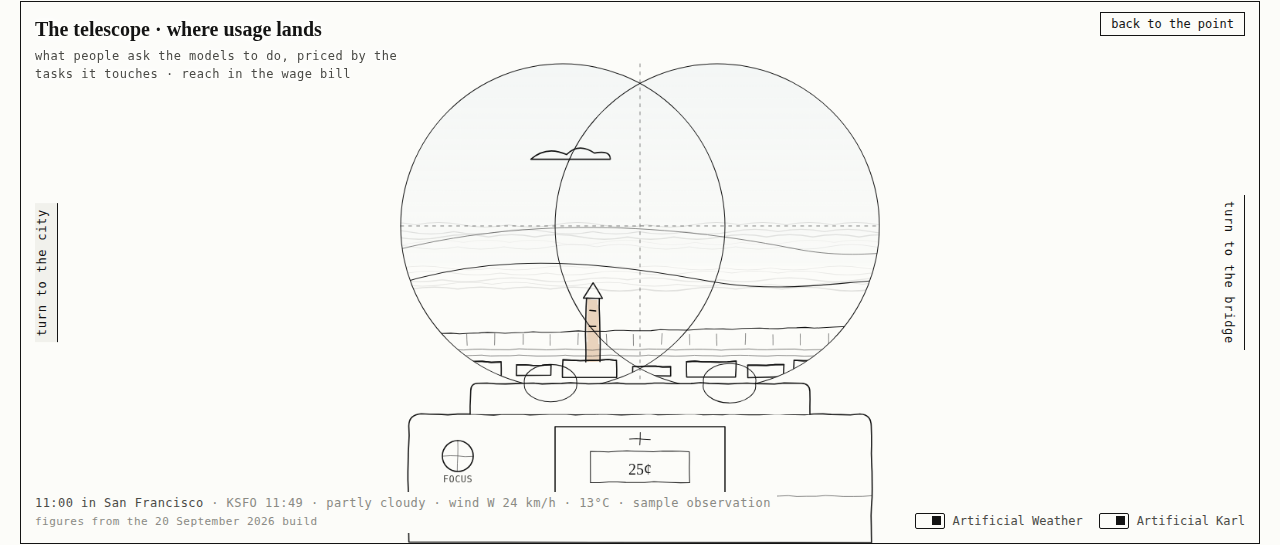
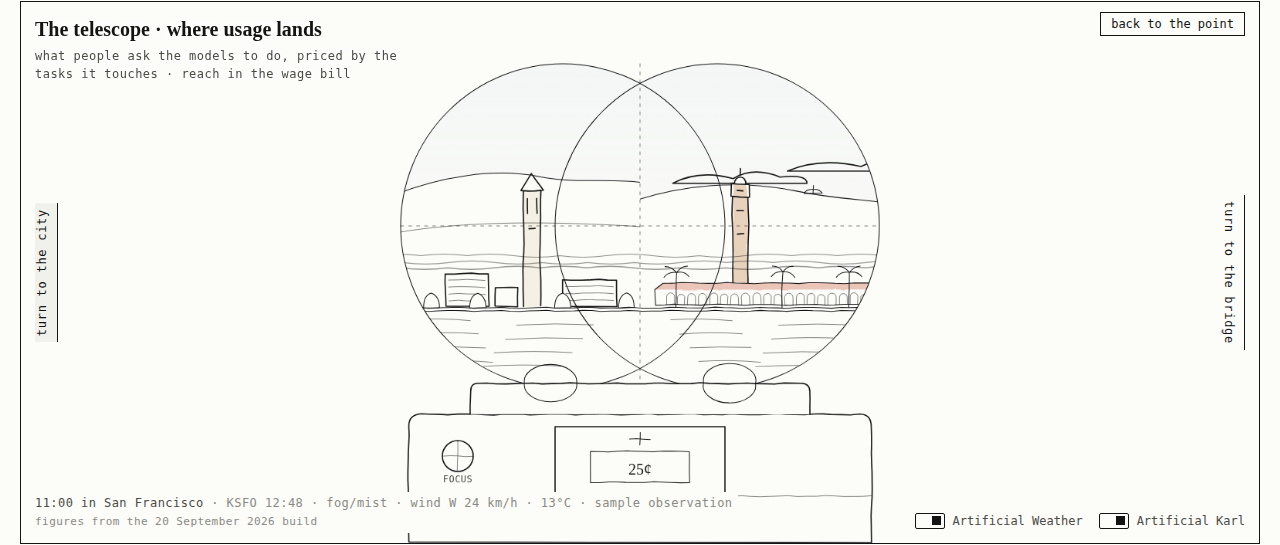
Front page: the city the right way round from the point, the headland solid over the Gate's north tower, the lantern's light cast on what it turns to, the fog lifting while the view turns, one car at a time, the launch from behind the southern hills, two campuses in the eyepieces

Changed region(s): [[0.3125, 0.2495, 0.6875, 0.7174], [0.25, 0.9046, 0.5938, 0.9358], [0.5, 0.3431, 0.5312, 0.3743]]

diff --git a/docs/mockup/index.html b/docs/mockup/index.html
@@ -85,7 +85,10 @@ header.top{display:flex;align-items:baseline;justify-content:space-between;gap:1
 .sunwash,.dawn{pointer-events:none}
 .skywash{mix-blend-mode:var(--blend,multiply)}
 .stage.stale .obs{color:var(--ink-3)}
-.beam{transform-origin:var(--bx) var(--by);transition:transform .8s cubic-bezier(.65,0,.25,1)}
+/* while the view turns, the fog lifts and comes back once it settles: it is most of what the turn has to redraw */
+.stage.fogout .fog{opacity:0 !important}.stage.turning .fog{display:none}
+.beam{transition:opacity .7s}.beam.moving{opacity:0;transition:none}
+#beamlight{mix-blend-mode:var(--blend,multiply)}
 .stage:not([data-view="home"]) .fg .hot,.stage[data-view="valley"] .beam{display:none}
 .stage:not([data-view="home"]) .beam path{opacity:.4}
 .halo{fill:var(--gold);stroke:none;opacity:0;transition:opacity .6s}
@@ -224,16 +227,17 @@ header.top{display:flex;align-items:baseline;justify-content:space-between;gap:1
     <svg class="pan" id="L-lights" viewBox="0 0 1600 700" aria-hidden="true"><g class="zoom"><g id="lights" class="scene"></g></g></svg>
     <svg class="pan" id="L-water" viewBox="0 0 1600 700" aria-hidden="true"><g class="zoom scene"><g id="water" class="hair"></g><g id="fog" class="fog" mask="url(#fogmask)"></g></g></svg>
     <!-- foreground: the point, the lighthouse, the railing, the viewer at rest -->
-    <svg id="L-life" viewBox="0 0 1600 700" aria-hidden="true"><g id="life" class="life scene"></g></svg>
+    <svg id="L-life" viewBox="0 0 1600 700" aria-hidden="true"><defs><clipPath id="behind-hills"><path clip-rule="evenodd" d="M0 0 H1600 V700 H0 Z M 1452 341 C 1490 326, 1535 316, 1575 318 C 1590 319, 1598 322, 1600 324 L 1600 341 Z"/></clipPath></defs><g id="life" class="life scene"></g></svg>
     <svg class="fg" id="L-fg" viewBox="0 0 1600 700" role="group" aria-label="An ink drawing of a lighthouse on a headland. Turn to the city or the bridge, or raise the coin telescope to look at the valley.">
       <g class="zoom" id="fgzoom"><g id="fg" class="scene">
         <path d="M560 700 C 600 620, 690 590, 760 585 C 830 580, 880 600, 930 610 C 980 620, 1040 660, 1060 700 Z" style="fill:var(--paper)"/>
         <path d="M600 660 C 650 640, 700 645, 740 630 M850 640 C 900 630, 950 650, 1000 670" class="thin"/>
-        <g class="beam" id="beam"><path d="" class="hair" stroke-dasharray="6 6"/></g>
+        <defs><linearGradient id="beamgrad" gradientUnits="userSpaceOnUse"><stop offset="0" stop-color="#E8C35A" stop-opacity=".55"/><stop offset="1" stop-color="#E8C35A" stop-opacity="0"/></linearGradient></defs>
+        <g class="beam" id="beam"><polygon id="beamlight" points="0,0" fill="url(#beamgrad)" style="stroke:none"/><path d="" class="hair" stroke-dasharray="6 6"/></g>
         <g id="lh"></g>
         <!-- a small platform off the gallery, and the coin telescope on it, turned south -->
-        <path d="M825 283 L 858 283 L 858 288 L 825 288 M 856 283 L 856 270 M 846 288 L 828 300" class="thin" style="fill:var(--paper)"/>
-        <g transform="translate(842,283)" id="viewer-small"></g>
+        <path d="M825 283 L 888 283 L 888 288 L 825 288 Z M 886 283 L 886 270 M 866 288 L 830 304" class="thin" style="fill:var(--paper)"/>
+        <g transform="translate(870,283)" id="viewer-small"></g>
         <path d="M640 604 L 960 604 M640 604 L 640 630 M720 604 L 720 632 M800 604 L 800 632 M880 604 L 880 630 M960 604 L 960 628" class="thin"/>
         <g class="hot" id="hot-city" tabindex="0" role="button" aria-label="The city: what has moved">
           <path class="hit" d="M800 300 L1600 120 L1600 480 Z"/><path class="hit" d="M1000 120 h560 v200 h-560 Z"/>
@@ -248,7 +252,7 @@ header.top{display:flex;align-items:baseline;justify-content:space-between;gap:1
           <g class="detail"><text x="110" y="210">the pipeline · who is training for exposed work</text></g>
         </g>
         <g class="hot" id="hot-tele" tabindex="0" role="button" aria-label="The telescope: where usage lands">
-          <path class="hit" d="M760 200 h110 v400 h-110 Z"/><path class="hit" d="M860 400 h290 v84 h-290 Z"/>
+          <path class="hit" d="M760 200 h140 v400 h-140 Z"/><path class="hit" d="M860 400 h290 v84 h-290 Z"/>
           <text x="872" y="424" class="cap">The telescope</text>
           <text x="872" y="446" class="mark" id="mark-valley"></text>
           <g class="detail"><text x="872" y="466">where usage lands · looking south, down the bay</text></g>
@@ -422,7 +426,7 @@ header.top{display:flex;align-items:baseline;justify-content:space-between;gap:1
      this one drawing about that place, so what you were looking at grows and nothing new arrives. The
      lighthouse in front is fixed, and shrinks to the base of the frame when the view has turned. */
   // c is the point of the scene brought to the middle of the frame (800, 300); s is how far the view leans in
-  const ZOOM = { home:{c:[800,300], s:1}, city:{c:[1170,300], s:2.3}, bridge:{c:[430,290], s:2.4}, valley:{c:[800,300], s:1} };
+  const ZOOM = { home:{c:[800,300], s:1}, city:{c:[1140,300], s:2.3}, bridge:{c:[430,290], s:2.4}, valley:{c:[800,300], s:1} };
   const toScreen = (view, x, y) => { const {c, s} = ZOOM[view]; return [800 + s*(x-c[0]), 300 + s*(y-c[1])]; };
   const toScene  = (view, x, y) => { const {c, s} = ZOOM[view]; return [c[0] + (x-800)/s, c[1] + (y-300)/s]; };
   const far = $("#far"), washes = $("#washes"), waterG = $("#water"), fogG = $("#fog");
@@ -433,11 +437,14 @@ header.top{display:flex;align-items:baseline;justify-content:space-between;gap:1
   water(waterA, 0, W, 352, 690, 3, 40); water(waterB, 0, W, 366, 690, 4, 40); water(waterC, 0, W, 380, 690, 8, 40);
   (function crests(){ const r = rng(19); for (let i=0;i<12;i++){ const x = r()*W, y = 360 + r()*320; const c = el("path", {d:`M${x} ${y} q 6 -3 12 0 M${x+3} ${y-2} l 2 -2`, class:"crest thin"}, waterG); c.style.animationDelay = (-r()*4).toFixed(2) + "s"; c.style.animationDuration = (3 + r()*3).toFixed(2) + "s"; } })();
   // the Marin headland, near, drawn over the water so the bay ends at its foot; the road out to the point on it
-  const headland = el("g", {}, waterG);
+  const headland = el("g", {}); waterG.parentNode.insertBefore(headland, fogG);
   // a ridge that falls from the left edge to the water, the Gate's north end on its shoulder
   // the Marin headland: a low rounded shoulder falling to the water at the Gate's north end
-  el("path", {d:"M 0 346 L 0 292 C 50 284, 115 286, 170 300 C 220 313, 262 330, 300 342 L 300 346 Z", style:"fill:var(--paper)"}, headland);
-  el("path", {d:"M 20 330 C 80 322, 150 324, 220 334", class:"hair", "stroke-dasharray":"8 6"}, headland);
+  // filled down into the water so the Gate's north tower stands out of it; only its skyline is inked
+  el("path", {d:"M 0 380 L 0 262 C 60 252, 150 256, 230 270 C 290 281, 332 304, 366 330 C 376 338, 384 343, 394 346 C 380 360, 330 372, 300 380 Z", style:"fill:var(--paper);stroke:none"}, headland);
+  el("path", {d:"M 0 262 C 60 252, 150 256, 230 270 C 290 281, 332 304, 366 330 C 376 338, 384 343, 394 346"}, headland);
+  el("path", {d:"M 394 346 C 370 352, 340 356, 300 360", class:"hair"}, headland);
+  el("path", {d:"M 20 318 C 100 300, 190 298, 280 312", class:"hair", "stroke-dasharray":"8 6"}, headland);
   fog(fogG, [[330, 5, 6],[400, 6, 7],[470, 5, 5]], 11);
 
   // the Presidio's low shore at the Gate's south end, running on to the city
@@ -449,8 +456,10 @@ header.top{display:flex;align-items:baseline;justify-content:space-between;gap:1
   tint(washes, "M 300 217 Q 460 287 620 217 l 0 5 Q 460 292 300 222 Z", "var(--orange)");            // the cable
 
   // the city, small on the horizon, drawn once at the size it has from here; turning to it scales this
-  const CITY = { x:900, y:340, k:0.42 };
-  const cityTransform = `translate(${CITY.x},${CITY.y}) scale(${CITY.k})`;
+  // drawn in its own units and mirrored into the scene, since from Point Bonita the waterfront is the north end, on the left, and Sutro the south, on the right
+  const CITY = { x:900, y:340, k:0.42, w:1580 };
+  const cityX = u => CITY.x + (CITY.w - u)*CITY.k;
+  const cityTransform = `translate(${CITY.x + CITY.w*CITY.k},${CITY.y}) scale(${-CITY.k},${CITY.k})`;
   const cityG = el("g", {transform:cityTransform, class:"city"}, far), cityW = el("g", {transform:cityTransform}, washes);
 
   function skyline(g, w, baseY, colour, ox=0){
@@ -461,8 +470,8 @@ header.top{display:flex;align-items:baseline;justify-content:space-between;gap:1
     const sx = ox+700, sy = baseY-104;
     // Sutro: three masts, the outer pair upright at the top, pinched to a waist, splayed to the feet, tied by struts
     const H = 100;
-    el("path", {d:`M${sx-26} ${sy} L ${sx-7} ${sy-H*0.5} L ${sx-16} ${sy-H*0.62} L ${sx-16} ${sy-H} M${sx} ${sy-H-8} L ${sx} ${sy} M${sx+26} ${sy} L ${sx+7} ${sy-H*0.5} L ${sx+16} ${sy-H*0.62} L ${sx+16} ${sy-H}`, class:"thin"}, g);
-    for (const [f, hw] of [[0.12, 22], [0.3, 15], [0.5, 7], [0.62, 16], [0.84, 16]]) el("path", {d:`M${sx-hw} ${sy-H*f} L ${sx+hw} ${sy-H*f}`, class:"hair"}, g);
+    el("path", {d:`M${sx-19} ${sy} L ${sx-5} ${sy-H*0.5} L ${sx-11} ${sy-H*0.62} L ${sx-11} ${sy-H} M${sx} ${sy-H-8} L ${sx} ${sy} M${sx+19} ${sy} L ${sx+5} ${sy-H*0.5} L ${sx+11} ${sy-H*0.62} L ${sx+11} ${sy-H}`, class:"thin"}, g);
+    for (const [f, hw] of [[0.12, 16], [0.3, 11], [0.5, 5], [0.62, 11], [0.84, 11]]) el("path", {d:`M${sx-hw} ${sy-H*f} L ${sx+hw} ${sy-H*f}`, class:"hair"}, g);
     const towers = [[860,110,26,1],[892,150,24,1],[920,80,20,0],[946,200,30,1],[982,260,34,1],[1022,180,26,1],[1054,150,22,1],[1082,120,28,0],[1116,96,22,1],[1144,140,26,1],[1176,70,20,0]];
     for (const [x,h,w_,win] of towers) box(g, ox+x, baseY-h-8, w_, h, win);
     el("path", {d:`M ${ox+900} ${baseY-8} L ${ox+914} ${baseY-236} L ${ox+928} ${baseY-8} Z`, style:"fill:var(--paper)"}, g);
@@ -568,26 +577,42 @@ header.top{display:flex;align-items:baseline;justify-content:space-between;gap:1
 
   /* ---------- the valley ---------- */
   (function valley(g){
-    el("path", {d:"M 400 400 C 560 320, 720 330, 880 360 C 1040 390, 1140 330, 1220 380", class:"thin"}, g);
-    el("path", {d:"M 420 340 C 600 280, 800 280, 1000 320 C 1100 340, 1160 310, 1200 330", class:"hair"}, g);
-    el("path", {d:"M 440 450 L 1180 450 M 440 458 L 1180 458", class:"hair"}, g);
-    el("path", {d:"M 520 430 L 1120 420", class:"thin"}, g); for (let x=540; x<1120; x+=36) el("path", {d:`M${x} 430 L ${x} 444`, class:"hair"}, g);
-    const b = [[560,466,60,18],[640,470,44,14],[700,464,70,22],[790,472,50,12],[860,466,64,20],[940,470,46,16],[1000,464,58,22],[1080,472,40,12]];
-    for (const [x,y,w,h] of b){ box(g, x, y, w, h, false); el("path", {d:`M${x} ${y} L ${x+w} ${y}`}, g); }
-    el("path", {d:"M 730 466 L 730 384 L 748 384 L 748 466 M 726 384 L 752 384 L 739 364 Z M 735 400 L 743 400 M 735 420 L 743 420"}, g);   // Hoover Tower
-    tintRect(g, 731, 385, 16, 81, "var(--sandstone)");                                                                                            // its sandstone
-    for (let i=0;i<5;i++){ const y = 500 + i*16; el("path", {d:`M ${520 - i*40} ${y} L ${1080 + i*40} ${y}`, class:"hair", "stroke-dasharray":"2 7"}, g); }
-    for (const x of [470, 505, 1130, 1165]) el("path", {d:`M${x} 500 q 0 -18 12 -22 q 12 4 12 22 z M${x+12} 500 l 0 12`, class:"thin"}, g);
+    // each glass shows its own campus, split down the crosshair
+    const defs = el("defs", {}, $("#L-valley"));
+    const cl = el("clipPath", {id:"eye-l"}, defs); el("rect", {x:0, y:0, width:800, height:700}, cl);
+    const cr = el("clipPath", {id:"eye-r"}, defs); el("rect", {x:800, y:0, width:800, height:700}, cr);
+    const L = el("g", {"clip-path":"url(#eye-l)"}, g), R = el("g", {"clip-path":"url(#eye-r)"}, g);
+    // left: the hills behind, the campus on its slope, its campanile over the trees, the bay in front
+    el("path", {d:"M 480 250 C 540 226, 610 214, 670 226 C 720 236, 770 226, 820 236 L 820 400 L 480 400 Z", class:"thin", style:"fill:var(--paper)"}, L);
+    el("path", {d:"M 480 300 C 560 286, 660 282, 820 292", class:"hair"}, L);
+    box(L, 548, 352, 56, 42, true); box(L, 700, 360, 70, 34, true); box(L, 612, 370, 30, 24, false);
+    campanile(L, 660, 394, 150);
+    tintRect(L, 649, 245, 22, 149, "var(--cream)");
+    for (const x of [520, 580, 690, 772]) el("path", {d:`M${x} 396 q 0 -16 10 -19 q 10 3 10 19 z`, class:"thin", style:"fill:var(--paper)"}, L);
+    el("path", {d:"M 480 396 L 820 396", class:"thin"}, L);
+    for (let i=0;i<4;i++){ const y = 412 + i*18; el("path", {d:`M ${500 + i*10} ${y} q 40 -3 80 0 M ${640 - i*14} ${y+6} q 50 -3 100 0`, class:"hair"}, L); }
+    // right: the foothills and the dish on them, the tower over the arcaded quad, palms along the front
+    el("path", {d:"M 780 262 C 850 236, 930 230, 1000 244 C 1050 254, 1090 256, 1130 262 L 1130 400 L 780 400 Z", class:"thin", style:"fill:var(--paper)"}, R);
+    el("path", {d:"M 1012 248 a 12 7 0 0 1 24 0 Z M 1024 248 L 1024 238", class:"thin"}, R);
+    const tx = 930;
+    el("path", {d:`M ${tx-10} 372 L ${tx-10} 252 L ${tx+10} 252 L ${tx+10} 372 Z M ${tx-12} 252 L ${tx+12} 252 L ${tx+12} 236 L ${tx-12} 236 Z M ${tx-8} 236 C ${tx-8} 224, ${tx+8} 224, ${tx+8} 236 M ${tx} 224 L ${tx} 216 M ${tx-4} 244 L ${tx+4} 244 M ${tx-4} 270 L ${tx+4} 270 M ${tx-4} 300 L ${tx+4} 300`, style:"fill:var(--paper)"}, R);
+    tintRect(R, tx-9, 237, 18, 135, "var(--sandstone)");
+    el("path", {d:"M 820 372 L 820 392 L 1110 392 L 1110 372 L 1100 364 L 830 364 Z", class:"thin", style:"fill:var(--paper)"}, R);
+    for (let x=834; x<1104; x+=14) el("path", {d:`M${x} 392 L ${x} 382 a 5 5 0 0 1 10 0 L ${x+10} 392`, class:"hair"}, R);
+    tint(R, "M 820 372 L 830 364 L 1100 364 L 1110 372 Z", "var(--orange)").style.opacity = ".3";
+    for (const x of [846, 984, 1070]) el("path", {d:`M${x} 396 L ${x+1} 350 M${x+1} 350 q -10 -2 -16 6 M${x+1} 350 q 10 -2 16 6 M${x+1} 350 q -6 -8 -14 -8 M${x+1} 350 q 6 -8 14 -8`, class:"thin"}, R);
+    el("path", {d:"M 780 396 L 1130 396", class:"thin"}, R);
+    for (let i=0;i<4;i++){ const y = 412 + i*18; el("path", {d:`M ${840 + i*12} ${y} q 40 -3 80 0 M ${980 - i*10} ${y+6} q 50 -3 100 0`, class:"hair"}, R); }
   })($("#valley-scene"));
   wobble($("#valley-scene"), 3); wobble($("#viewer-big"), 4);
-  fog($("#fog-valley"), [[290, 6, 5],[345, 5, 5]], 41);
+  fog($("#fog-valley"), [[330, 4, 3]], 41);
 
   /* ---------- the beam and the pan ---------- */
   const beam = $("#beam"), cone = $("#cone"), pans = document.querySelectorAll("svg.pan"), fgSvg = $("#L-fg"), fg = $("#fg"), stage = $("#stage");
   // what each view is, in the scene: the two ends the beam reaches for. The telescope is in front, on the rail.
   // from the point the beam reaches for the whole of the place; once turned, it skims the water to the place's feet
-  const TARGET = { city:{ ends:[[1050, 230], [1560, 336]], base:[[1050, 340], [1450, 340]] }, bridge:{ ends:[[160, 240], [760, 330]], base:[[160, 336], [760, 336]] }, tele:{ ends:[[1470, 334], [1600, 346]] } };
-  const beamPath = $("#beam path");
+  const TARGET = { city:{ ends:[[1020, 230], [1390, 336]], base:[[1060, 250], [1390, 338]] }, bridge:{ ends:[[160, 240], [760, 330]], base:[[300, 215], [560, 338]] }, tele:{ ends:[[1470, 334], [1600, 346]] } };
+  const beamPath = $("#beam path"); let beamTimer = null; const fogTimers = [];
   // where the lighthouse stands in each view: whole at the point; turned, only its lantern shows, large, at the side you turned from
   const LANTERN = [800, 265];
   const fgAt = (x, y, s) => ({ s, t:[x - s*LANTERN[0], y - s*LANTERN[1]] });
@@ -602,7 +627,12 @@ header.top{display:flex;align-items:baseline;justify-content:space-between;gap:1
     const onScreen = ends.map(([x, y]) => { if (!zoomed) return [x, y]; const [sx, sy] = toScreen(view, x, y); return [Math.max(40, Math.min(1560, sx)), sy]; });
     // the beam is drawn in the lighthouse's own space, which moves and scales with it
     const past = ([x, y]) => [lantern[0] + (x-lantern[0])*1.25, lantern[1] + (y-lantern[1])*1.25];
-    beamPath.setAttribute("d", onScreen.map(e => { const [x, y] = screenToFg(view, past(e)); return `M${LANTERN[0]} ${LANTERN[1]} L ${x.toFixed(1)} ${y.toFixed(1)}`; }).join(" "));
+    const far = onScreen.map(e => screenToFg(view, past(e)));
+    beamPath.setAttribute("d", far.map(([x, y]) => `M${LANTERN[0]} ${LANTERN[1]} L ${x.toFixed(1)} ${y.toFixed(1)}`).join(" "));
+    // the wash of light between the two lines, strongest at the lantern, gone by the far end
+    $("#beamlight").setAttribute("points", [LANTERN, ...far].map(q => q.map(v => v.toFixed(1)).join(",")).join(" "));
+    const g = $("#beamgrad"), mid = [(far[0][0]+far[1][0])/2, (far[0][1]+far[1][1])/2];
+    g.setAttribute("x1", LANTERN[0]); g.setAttribute("y1", LANTERN[1]); g.setAttribute("x2", mid[0].toFixed(1)); g.setAttribute("y2", mid[1].toFixed(1));
     // the fog opens between the same two lines, in scene units
     const [ox, oy] = zoomed ? toScene(view, ...lantern) : lantern, L = 1400/ZOOM[view].s;
     const ang = onScreen.map(([x, y]) => Math.atan2(y-lantern[1], x-lantern[0])); let [a0, a1] = ang; if (a1 < a0) [a0, a1] = [a1, a0]; if (a1 - a0 > Math.PI){ [a0, a1] = [a1, a0 + 2*Math.PI]; }
@@ -679,7 +709,11 @@ header.top{display:flex;align-items:baseline;justify-content:space-between;gap:1
   function go(view){
     clearTimeout(timer);
     stage.dataset.view = view;
-    $("#life").replaceChildren();                                              // whatever was crossing the last view stays there
+    $("#life").replaceChildren(); taxiUntil = 0;                               // whatever was crossing the last view stays there
+    beam.classList.add("moving"); clearTimeout(beamTimer); beamTimer = setTimeout(()=>beam.classList.remove("moving"), 1450);
+    stage.classList.add("fogout"); clearTimeout(fogTimers[0]); clearTimeout(fogTimers[1]);
+    fogTimers[0] = setTimeout(()=>stage.classList.add("turning"), 260);
+    fogTimers[1] = setTimeout(()=>{ stage.classList.remove("turning"); requestAnimationFrame(()=>requestAnimationFrame(()=>stage.classList.remove("fogout"))); }, 1450);
     hold(); light(null);
     if (view === "valley"){ $("#life").setAttribute("mask", "url(#binoc)"); $("#skyall").setAttribute("mask", "url(#binoc)"); }
     else { $("#life").removeAttribute("mask"); $("#skyall").removeAttribute("mask"); }
@@ -903,6 +937,7 @@ header.top{display:flex;align-items:baseline;justify-content:space-between;gap:1
   const life = $("#life");
   const reduced = matchMedia("(prefers-reduced-motion: reduce)").matches;
   function tween(ms, step, done){ const t0 = performance.now(); (function f(t){ const k = Math.min(1, (t - t0)/ms); step(k); if (k < 1) requestAnimationFrame(f); else if (done) done(); })(t0); }
+  let taxiUntil = 0;                        // one robotaxi on the road at a time
   const EVENTS = {
     gull(){ const g = el("g", {class:"thin"}, life); const y = 150 + Math.random()*120, ltr = Math.random() < .5, flap = ["M-10 0 q 10 -9 20 0 M10 0 q 10 -9 20 0", "M-10 0 q 10 -2 20 0 M10 0 q 10 -2 20 0"];
       const w = el("path", {d:flap[0]}, g); let i = 0; const flapper = setInterval(()=>{ w.setAttribute("d", flap[i++ % 2]); }, 260);
@@ -914,8 +949,8 @@ header.top{display:flex;align-items:baseline;justify-content:space-between;gap:1
       tween(32000, k=>{ g.setAttribute("transform", `translate(${1660 - k*1760},${y + k*18})`); }, ()=>{ clearInterval(blink); g.remove(); }); },
     rocket(){ const view = stage.dataset.view; if (view === "city") return EVENTS.gull();
       // it lifts from beyond the southern hills on the horizon, or, through the eyepieces, from the valley
-      const [x0, y0] = view === "valley" ? [760, 330] : view === "home" ? [1545, 332] : [1480, toScreen("bridge", 0, 338)[1]];
-      const g = el("g", {class:"thin"}, life);
+      const [x0, y0] = view === "valley" ? [930, 262] : view === "home" ? [1545, 342] : [1480, toScreen("bridge", 0, 338)[1]];
+      const g = el("g", {class:"thin"}, life); if (view === "home") g.setAttribute("clip-path", "url(#behind-hills)");
       el("path", {d:"M0 0 L 0 -26 L 4 -34 L 8 -26 L 8 0 Z M0 0 L -4 6 M8 0 L 12 6", transform:"translate(-4,0)", style:"fill:var(--paper)"}, g);
       const plume = el("g", {class:"hair"}, g);
       const puff = () => { if (plume.childElementCount < 40 && Math.random() < .6) el("path", {d:`M${(Math.random()-.5)*8} ${6 + Math.random()*10} l 0 ${6 + Math.random()*14}`}, plume); };
@@ -927,7 +962,7 @@ header.top{display:flex;align-items:baseline;justify-content:space-between;gap:1
       tween(12500, k=>{
         if (k < .36){ const t = k/.36; g.setAttribute("transform", `translate(${x0 - t*40},${y0 - (2*t - t*t)*230}) rotate(${-t*10})`); puff(); }
         else if (k < .46){ const t = (k-.36)/.1;
-          if (!pop){ pop = el("g", {class:"hair"}, life); for (let i=0;i<9;i++){ const a = i/9*2*Math.PI; el("path", {d:`M${xf + Math.cos(a)*7} ${top - 16 + Math.sin(a)*7} l ${Math.cos(a)*9} ${Math.sin(a)*9}`}, pop); } plume.style.opacity = 0; }
+          if (!pop){ g.removeAttribute("clip-path"); pop = el("g", {class:"hair"}, life); for (let i=0;i<9;i++){ const a = i/9*2*Math.PI; el("path", {d:`M${xf + Math.cos(a)*7} ${top - 16 + Math.sin(a)*7} l ${Math.cos(a)*9} ${Math.sin(a)*9}`}, pop); } plume.style.opacity = 0; }
           g.setAttribute("transform", `translate(${xf + Math.sin(t*44)*2.5},${top + t*6}) rotate(${-10 + Math.sin(t*34)*14})`); pop.style.opacity = 1 - t*.6; }
         else if (k < .86){ const t = (k-.46)/.4; fx = xf + Math.sin(t*10)*20;
           g.setAttribute("transform", `translate(${fx},${top + 6 + t*t*(waterY - top - 6)}) rotate(${-10 + t*t*420 + Math.sin(t*24)*25})`); if (pop) pop.style.opacity = Math.max(0, .4 - t*2); }
@@ -936,9 +971,9 @@ header.top{display:flex;align-items:baseline;justify-content:space-between;gap:1
             el("path", {d:`M${fx-30} ${waterY+6} q 30 -5 60 0 M${fx-48} ${waterY+14} q 48 -6 96 0`, class:"hair"}, splash); }
           splash.style.opacity = 1 - (k-.86)/.14; }
       }, ()=>{ g.remove(); if (pop) pop.remove(); if (splash) splash.remove(); }); },
-    robotaxi(){ if (stage.dataset.view !== "city") return EVENTS.gull();
+    robotaxi(){ if (stage.dataset.view !== "city") return EVENTS.gull(); if (performance.now() < taxiUntil) return; taxiUntil = performance.now() + 21000;
       // the city's own units on screen, and the drawn hydrant's place on the shore; it comes in from the west along the front
-      const k = ZOOM.city.s*CITY.k, [hx, hy] = toScreen("city", CITY.x + HYD*CITY.k, CITY.y);
+      const k = ZOOM.city.s*CITY.k, [hx, hy] = toScreen("city", cityX(HYD), CITY.y);
       const g = el("g", {class:"thin"}, life); const S = 1.05*k; const y = hy - 3*S; const x0 = 1700;
       // a small car with its sensor dome, running the waterfront toward the hydrant by the Ferry Building
       const car = el("g", {transform:`scale(${S})`}, g);
